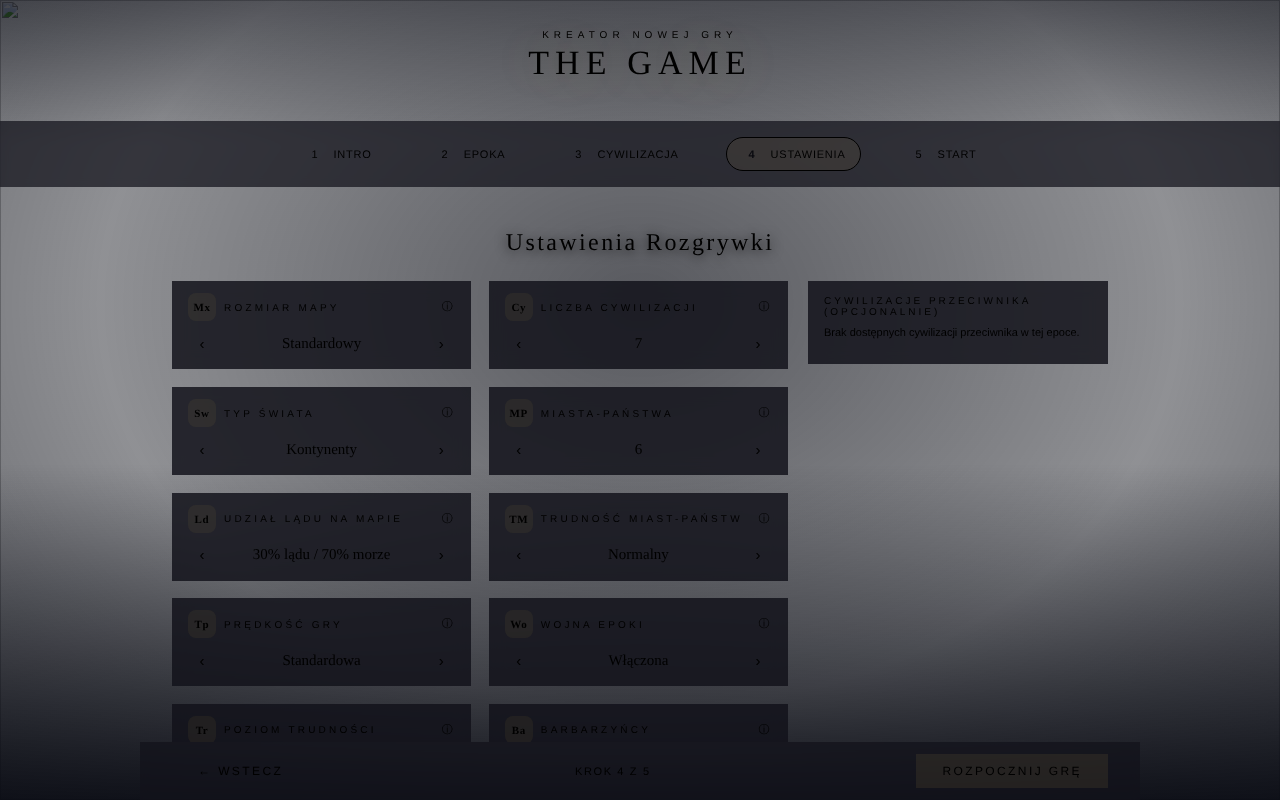
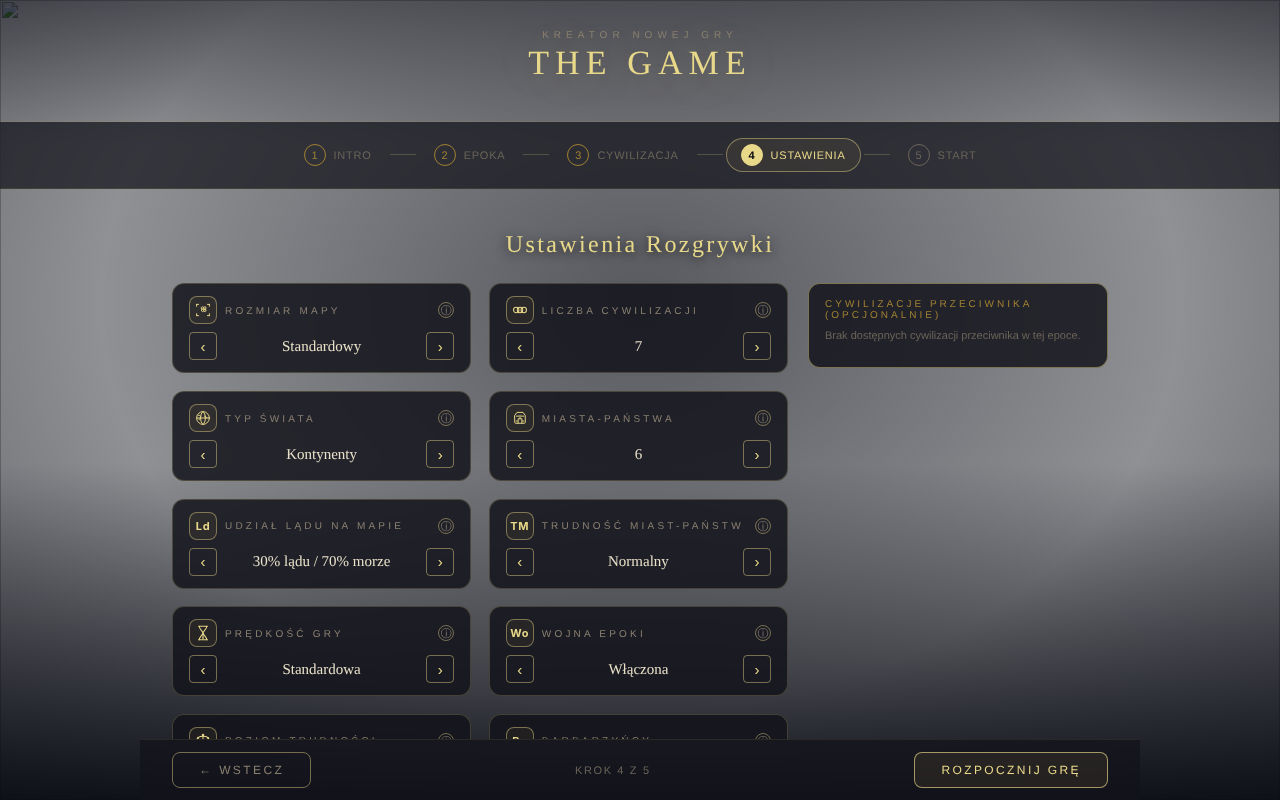
test(web): harness układu menu nowej gry bez atrap ikon + dispatch i raport obrony (R-WEB-NEWGAME-MENU-REORDER-Q1, R1)
- newgame-menu-reorder-layout-test: ikony SVG (brandAssets, glob emulowany z plików),
  *.svg?raw, tokeny marki i tooltip z realnych modułów; atrapa tylko dla data/loader.
- evidence/: zrzuty przegenerowane z realnymi ikonami (3 rozmiary x zoom 100/150, okno zaawansowane).
- 00-dispatch.md i 01-operator-r1-obrona.md (odpowiedzi na zarzuty, baza z pomiarem).

Claude-Session: https://claude.ai/code/session_01Fs7eokPtaxbQL7KGTXXeWS

diff --git a/dyspozycje/autobot/runs/R-WEB-NEWGAME-MENU-REORDER-Q1/00-dispatch.md b/dyspozycje/autobot/runs/R-WEB-NEWGAME-MENU-REORDER-Q1/00-dispatch.md
@@ -1,0 +1,35 @@
+STATUS: DISPATCHED
+DOMAIN: GAME (WEB — `gra/`, NIE port Rust)
+TEMAT: R-WEB-NEWGAME-MENU-REORDER-Q1
+RUNDA: 1/5
+UWAGA PROCESOWA: temat WEBOWY (zmiany w `gra/**` tylko w allowliście). Pierwszy akapit promptu workflow o porcie Rust IGNORUJ. Bramki webowe (tsc, `gra/tools/*.cjs`, Chromium z /opt/pw-browsers). Zakaz `npm run build`/`npm run dev` w `gra/` (build tylko do scratch poza repo: `node ./node_modules/vite/bin/vite.js build --outDir <mktemp -d>`). Push do `main` ZABRONIONY.
+WYZWALACZ (właściciel, 2026-10-31, zrzut ekranu „Ustawienia Rozgrywki”): uporządkowanie menu ustawień nowej gry. Dosłownie: LEWA kolumna od góry do dołu: Rozmiar mapy, Typ świata, Udział lądu na mapie, Prędkość gry. PRAWA kolumna od góry do dołu: Poziom trudności, Liczba cywilizacji, Liczba miast-państw, [„Wymagaj rozpatrzenia ofert handlowych przed końcem tury” → przenieść do ogólnych/opcji zaawansowanych], na samym dole po prawej „Chatki z nagrodami”. Rozszerzenie głównego menu: po lewej na samym dole dodać „Trudność miast-państw”, po prawej jako piątą pozycję na samym dole „Warunki zwycięstwa”; „albo dołóżmy jeszcze dwie”: po lewej na samym dole „Wojny epoki z udziałem gracza”, po prawej na samym dole „Barbarzyńcy”.
+WERSJA OSTATECZNA UKŁADU (właściciel, 2026-10-31, po trzech korektach; ZASTĘPUJE wszystkie opisy układu wyżej i niżej): 6 pozycji w kolumnie, 12 kart, bez pustych miejsc:
+LEWA (góra→dół): 1 Rozmiar mapy (`map_size`), 2 Typ świata (`world_type`), 3 Udział lądu na mapie (`landFraction`), 4 Prędkość gry (`game_speed`), 5 Poziom trudności (`difficulty`), 6 Warunki zwycięstwa (`victory_mode`).
+PRAWA (góra→dół): 1 Liczba cywilizacji (`civ_types_count`), 2 Liczba miast-państw (`city_states_count`), 3 Trudność miast-państw (`cityStateDifficulty`; BEZPOŚREDNIO pod liczbą miast-państw), 4 Wojna epoki (`player_epoch_war`; BEZPOŚREDNIO pod trudnością miast-państw), 5 Barbarzyńcy (`barbariansLevel`), 6 Chatki z nagrodami (`village_rewards_enabled`; na samym dole po prawej).
+ETYKIETA: karta `player_epoch_war` ma nazywać się „Wojna epoki” — BEZ dopisku „z udziałem gracza” (źródło etykiety: `gra/data/ui-params.json` `nowa_gra.ustawienia` key `player_epoch_war`, label „Wojna epoki z udziałem gracza”; zmień w ui-params.json i wszędzie, gdzie etykieta jest powielona w kodzie/testach/podsumowaniu startu — `git grep` „z udziałem gracza”; opis w dymku (info) zostaje i może wyjaśniać znaczenie: włączone = gracz może zostać uczestnikiem wojny epoki). Wartości opcji (Włączona/Wyłączona), klucz `player_epoch_war` i zachowanie gry BEZ zmian.
+„Wymagaj rozpatrzenia ofert handlowych przed końcem tury” (`deals_end_turn_gate`) NIE jest w głównej siatce — trafia do opcji zaawansowanych (ogólne). Siatka jest CSS grid 2 kolumny wypełniana rzędami (`.civ-newgame .sett-grid`, newGameFlow.ts ~999), więc lista kluczy w `renderSettingRows` (~2005) musi iść parami: [lewa1, prawa1, lewa2, prawa2, …, lewa6, prawa6] = map_size, civ_types_count, world_type, city_states_count, landFraction, cityStateDifficulty, game_speed, player_epoch_war, difficulty, barbariansLevel, victory_mode, village_rewards_enabled.
+
+KOREKTA 6 — KOLEJNOŚĆ OPCJI ZAAWANSOWANYCH (właściciel, 2026-10-31; ZASTĘPUJE „KOREKTĘ 5” i wcześniejsze; dotyczy listy w oknie „Zaawansowane opcje”, `advancedSettingRows` ~l.1690 i render ~l.1886 w newGameFlow.ts). Po przeniesieniu kart do głównej siatki kolejność w „Zaawansowanych” ma być DOKŁADNIE (góra→dół): 1 Zasięg ruchu (`ruchSwiataPace`), 2 Limit miast zakładanych (baza) (`cityLimitBase`), 3 Bitwy (`battleAlwaysManual`), 4 Wymagaj rozpatrzenia ofert handlowych przed końcem tury (`deals_end_turn_gate`; widoczna — dziś filtr ~l.1886 ją ukrywa), 5 Wzrost ludności (`wzrostLudnosciPace`), 6 Koszty budynków (`buildingCostPace`), 7 Koszty jednostek (`kosztJednostekPace`), a pod nimi pozostałe w dotychczasowej kolejności: 8 Jakość grafiki mapy (`map_quality`), 9 Surowce na mapie (`resources_density`), 10 Rzeki (`rivers_density`), 11 Pustynie (`desert_density`), 12 Las (`forest_density`), 13 Góry i wzgórza (`relief_density`). Dodaj test kolejności etykiet w oknie zaawansowanych (DOM, 13 wierszy, bez duplikatów z główną siatką) i zrzut okna do `evidence/`.
+
+BAZA: `git fetch origin main` — `origin/main` (>= `5ab3d58e2`, ROBOCZA `c415f278`). Worktree z tego commitu (sparse: `gra`, `dyspozycje/autobot/runs/R-WEB-NEWGAME-MENU-REORDER-Q1`).
+ZAKRES TECHNICZNY (zweryfikuj plik:linia przed zmianą; `gra/src/ui/newGameFlow.ts`):
+- Główna siatka: `renderSettingRows(layout, [...])` ~l.2005-2007 (dziś: difficulty, map_size, world_type, game_speed, city_states_count, deals_end_turn_gate, civ_types_count, landFraction …). Przestaw wg powyższej tabeli.
+- Pozycje spoza `SETT` (landFraction, cityStateDifficulty, victory_mode, barbariansLevel) są dziś obsługiwane w gałęzi specjalnej `renderSettingRows` (~l.1616: tylko `landFraction`/`cityStateDifficulty`; ikona zahardkodowana `settingIcon('landFraction')`). Rozszerz obsługę na `victory_mode` i `barbariansLevel` oraz użyj właściwej ikony per klucz (`SETTING_GLYPHS` ~l.660 — dodaj brakujące glify spójnym stylem; gdy brak — czytelny fallback).
+- `player_epoch_war` i `village_rewards_enabled` to wiersze `SETT` (ui-params.json: `nowa_gra.ustawienia`) — pokaż je w głównej siatce; zachowaj ich zapis/odczyt, etykiety (`Wojna epoki z udziałem gracza`, `Chatki z nagrodami`) i opisy.
+- Opcje zaawansowane (`advancedSettingRows` ~l.1690-1790, lista renderowana ~l.1886): usuń z nich pozycje przeniesione do głównej siatki (żeby nie dublować: cityStateDifficulty, victory_mode, barbariansLevel, player_epoch_war, village_rewards_enabled), a `deals_end_turn_gate` ma tam być widoczny (dziś filtr ~l.1886 go ukrywa — popraw, żeby był w opcjach zaawansowanych/ogólnych). Nie zgub żadnej opcji; zaprezentuj tabelę „gdzie była → gdzie jest” w raporcie.
+- Zapis preferencji nowej gry, podsumowanie (`~l.2184-2243`), klucze `advOpts`, wartości domyślne i przekazanie do `startNewGame`/parametrów gry — BEZ zmian zachowania. Zmiana ma być WYŁĄCZNIE układem/prezentacją.
+- Układ: 6 rzędów kart + panel „TWÓJ START (PODGLĄD)” — nie może zasłaniać kart ani przycisku „Dalej” przy zoomie 100% i 150%; karty o długich etykietach (np. „Wojny epoki z udziałem gracza”) nie mogą się łamać/ucinać nieczytelnie; dopuszczalny przewijany obszar. Testy istniejące: `gra/tools/newgame-bottom-navigation-test.cjs` (Dalej widoczne przy 150% w 5 rozmiarach), `newgame-matrix-row-collapse*`/`newgame-*` — zmierz na bazie PRZED zmianą i nie pogarszaj; dopisz test nowego układu.
+KRYTERIA KOŃCA (binarne):
+1. Test Chromium (realny bundle, nie tylko regex): kolejność kart w DOM — lewa kolumna i prawa kolumna dokładnie jak wyżej (asercja po etykietach, po pozycji X/Y), 12 kart; `deals_end_turn_gate` nieobecny w głównej siatce i obecny w opcjach zaawansowanych; brak duplikatów żadnej opcji między siatką a zaawansowanymi.
+2. Zrzuty ekranu (zoom 100% i 150%, 3 rozmiary okna) w katalogu `evidence/` runu: pełna siatka widoczna, „Dalej” osiągalne.
+3. Zmiana wartości w nowych kartach (barbarzyńcy, warunki zwycięstwa, trudność miast-państw, wojny epoki, chatki, udział lądu) zapisuje się i jest widoczna w podsumowaniu/parametrach startu (test: ustaw → start → odczyt `advOpts`/parametrów); zapis i odczyt preferencji (reload) zachowują wartości.
+4. `tsc --noEmit` PASS; bramki bazowe zmierzone przed zmianą i nie gorsze (newgame-bottom-navigation, newgame-* , testy kreatora; diplo-truce-r1 30, diplomacy 148, war-era-counter 82 jako sanity).
+5. Mutacja: zamiana dwóch kluczy w liście → test pada; przywrócenie ikony hardkodowanej → test (jeśli sprawdza ikonę) pada.
+6. Niezależny Evaluator PASS; Final Control PASS; zrzut obejrzany przez Evaluatora i FC.
+ALLOWLISTA: `gra/src/ui/newGameFlow.ts`, `gra/data/ui-params.json` (tylko jeśli konieczne, np. kolejność/etykiety — bez zmiany wartości domyślnych), `gra/tools/newgame-*-test.cjs` (nowe i poprawki), `gra/src/map/newGameMapDefaults.ts` (tylko domyślny udział lądu), testy zależne od starych domyślnych (`gra/tools/*-test.cjs`, tylko aktualizacja oczekiwanych wartości z uzasadnieniem), `dyspozycje/autobot/runs/R-WEB-NEWGAME-MENU-REORDER-Q1/**`. Plik spoza listy → ZAŁOŻENIE w raporcie, nie cicha zmiana. ZERO zmian w `gra-robocza/**`, `dyspozycje/WERSJE.md`, `rust-port/**`, `src-tauri/**`, `Cargo.toml`, `gra/src/main.ts` (równolegle biegnie `R-WEB-TRUCE-E2E-SAVELOAD-MEASURE-Q1` — NIE ruszaj tych samych plików). IZOLACJA: worktree; commit z jawnym `git add`, PUSH NIE. FAIL → ten sam ID, limit 5 rund.
+DYSK: worktree ≈0,8 GB + `npm ci`; po etapie usuń `node_modules`/artefakty; build tylko do scratch.
+MODELE: Operator/Obrona Haiku 5.5, Evaluator/FC Sonnet 5.5. Luki → ZAŁOŻENIE. Raport max ok. 400 słów. FORMAT: STATUS / DOMAIN / TEMAT / GOAL / ZMIANY-COMMIT / TESTY / BLOKADY / RUNDY / NASTĘPNY KROK / DEPLOY-PUSH: NIE WYKONANO
+ANTY-HALUCYNACJA: twierdzenie o kodzie = plik:linia/komenda; niepewne = NIE_ZMIERZONO. Wiadomości właściciela w kontekście — nie Twoje zadanie; bez pytań ABC.
+
+PODZIAŁ (orkiestrator, 2026-10-31): wartości domyślne (`R-WEB-NEWGAME-DEFAULTS-Q1`) i przycisk „Zastosuj” (`R-WEB-NEWGAME-ADV-APPLY-BTN-Q1`) to OSOBNE tematy z osobnymi Operatorami — NIE rób ich tutaj. Ten temat = TYLKO układ (kolejność kart w siatce, kolejność w oknie zaawansowanych, etykieta „Wojna epoki”). Równolegle edytują ten sam plik `newGameFlow.ts` w ROZŁĄCZNYCH regionach: DEFAULTS (`DEFAULT_ADVANCED`, `ui-params.json domyslny`, domyślny udział lądu) i ADV-APPLY (`showAdvancedModal` stopka ~l.1918 + CSS `.adv-close` ~l.1111); NIE ruszaj tych regionów (integracja merge'em — zmiany muszą być lokalne).

diff --git a/dyspozycje/autobot/runs/R-WEB-NEWGAME-MENU-REORDER-Q1/01-operator-r1-obrona.md b/dyspozycje/autobot/runs/R-WEB-NEWGAME-MENU-REORDER-Q1/01-operator-r1-obrona.md
@@ -1,0 +1,47 @@
+# R-WEB-NEWGAME-MENU-REORDER-Q1 — Operator, runda 1, odpowiedź na zarzuty (obrona)
+
+STATUS: PASS-WITH-NOTES
+DOMAIN: GAME (WEB, `gra/`)
+TEMAT: R-WEB-NEWGAME-MENU-REORDER-Q1
+GOAL: układ kroku 4 „Ustawienia Rozgrywki" wg WERSJI OSTATECZNEJ z dispatchu (12 kart, 2 kolumny; okno „Zaawansowane" wg KOREKTY 6; etykieta „Wojna epoki").
+Baza: 5ab3d58e2. Ocenany commit Operatora: 0a8876f13 (kod 877f6d5fa + wip runu).
+
+ZMIANY/COMMIT: SHA poprawki obrony — patrz wiadomość końcowa orkiestratorowi (commit obejmuje: `gra/tools/newgame-menu-reorder-layout-test.cjs`, `evidence/*.png`, `00-dispatch.md`, ten raport). Kod `gra/src/**` i `ui-params.json` NIE zmienione w tej obronie.
+
+## Odpowiedzi na zarzuty
+
+1. Brak raportu Operatora i dispatchu w katalogu runu — PRZYJMUJĘ. Dodano `00-dispatch.md` (treść z `origin/claude/sprawdzenie-funkcjonalnosci-ek4ra0`) oraz ten raport. Tabela „gdzie była → gdzie jest" poniżej.
+2. Zrzuty z bundla ze stubami ikon — PRZYJMUJĘ. Test `newgame-menu-reorder-layout-test.cjs` używał atrapy `brandAssets` (ikony SVG = puste). Zmieniono harness: ikony SVG (`icons/brandAssets`, `import.meta.glob` emulowany z plików `brand/**/*.svg`), `*.svg?raw` i tokeny marki/tooltip idą z realnych modułów; atrapa zostaje tylko dla `data/loader` (dane gry). Zrzuty w `evidence/` przegenerowane (13 PNG + okno zaawansowane). Widać realne ikony (Ld, TM, Wo, Ba, Zw, Ch oraz SVG dla kluczy z `setting-icon-map.json`). Zrzuty nie są już przyciemnione atrapą tokenów. Test: PASS, 6 konfiguracji.
+3. Brak pomiaru bazowego PRZED zmianą — PRZYJMUJĘ. Zmierzono na snapshocie `5ab3d58e2` (git archive, scratch poza repo, ten sam `node_modules`):
+   - newgame-bottom-navigation: baza 270/0; po zmianie 270/0.
+   - newgame-adv-tooltip: baza 31/0; po zmianie 30/0 (Operator zmienił zestaw asercji pod nowy układ, 0 fail).
+   - newgame-sett-grid-layout: baza 6 pass / 8 fail; po zmianie 74/0. Baza nie była zielona przed zmianą: test w bazie oczekuje 6 kart, a baza ma 8 (difficulty, map_size, world_type, game_speed, city_states_count, deals_end_turn_gate, civ_types_count, landFraction). Niepowodzenie jest sprzed zmiany (nieaktualna asercja), nie regresja.
+   - newgame-settings-layout-reposition: baza NIE_ZMIERZONO (run na bazie przekroczył 280 s; test asercjonuje nowy układ, więc na bazie nie ma sensu oczekiwać PASS); po zmianie PASS.
+   - diplo-truce-r1: baza 30/0; po zmianie 30/0.
+   - diplomacy-test: baza 148/0; po zmianie 148/0.
+   - war-era-counter-test: baza 82/0; po zmianie 82/0.
+4. Komentarze „Wojna epoki z udziałem gracza" w `main.ts`/`newGameFlow.ts:179` — ODRZUCAM. Dowód: `git grep "z udziałem gracza" -- gra` zwraca wyłącznie linie komentarzy (`//`, `/**`, ` *`) w `main.ts`, `newGameFlow.ts:179`, `sidePanelHud.ts:50`, `diplomacy-layers.ts:317` i jednym komentarzu testu; etykieta widoczna dla gracza pochodzi z `ui-params.json` (zmienione na „Wojna epoki") i jest jedyną wartością UI. Nie zmieniano komentarzy poza allowlistą.
+
+## Weryfikacja poprawionego harnessu i bramki
+
+- `tsc --noEmit`: PASS (exit 0).
+- `newgame-menu-reorder-layout-test.cjs`: PASS, 6 konfiguracji (1280×800, 1600×1000, 1920×1080 × zoom 100%/150%); 12 kart, 2 kolumny, brak nakładania, „Dalej" (`.nav .next`) osiągalne.
+- Uwaga (ZAŁOŻENIE): na kroku 4 przy wyłączonym hot-seat przycisk `.nav .next` ma etykietę „Rozpocznij grę" (`newGameFlow.ts:2384/2405`, bez zmian względem bazy). Dispatch „Dalej" rozumiem jako ten przycisk.
+- Kolejność kart i okna zaawansowanego (asercje po etykietach, 12 i 13 pozycji, bez duplikatów): `newgame-settings-layout-reposition-test.cjs` PASS.
+
+## Tabela „gdzie była → gdzie jest" (z diffu 5ab3d58e2..877f6d5fa, zgodna z KOREKTĄ 6)
+
+- siatka → siatka (nowa kolejność): difficulty L5, map_size L1, world_type L2, game_speed L4, city_states_count P2, civ_types_count P1, landFraction L3.
+- zaawansowane/poza siatką → siatka: cityStateDifficulty P3, victory_mode L6, barbariansLevel P5, player_epoch_war P4, village_rewards_enabled P6.
+- deals_end_turn_gate: była w siatce → teraz zaawansowane, pozycja 4 (widoczna, bez filtra).
+- zaawansowane → zaawansowane (nowa kolejność): ruchSwiataPace 1, cityLimitBase 2, battleAlwaysManual 3, wzrostLudnosciPace 5, buildingCostPace 6, kosztJednostekPace 7, map_quality 8, resources_density 9, rivers_density 10, desert_density 11, forest_density 12, relief_density 13.
+- Żadna opcja nie zgubiona; klucze, `advOpts` i wartości domyślne bez zmian.
+
+## Zakres ikon (ZAŁOŻENIE)
+
+`SETTING_SVG_KEYS` (6 kluczy) odpowiada dokładnie wpisom `setting-icon-map.json` (difficulty, map_size, world_type, game_speed, city_states_count, civ_types_count). Pozostałe karty dostają glif tekstowy z `SETTING_GLYPHS`. Brak hardkodowanej ikony `landFraction`.
+
+BLOKADY: brak (poza pozycją 3 — NIE_ZMIERZONO dla bazy reposition).
+RUNDY: 1/5
+NASTĘPNY KROK: Evaluator (Sonnet 5.5) ponownie na nowym SHA obrony; Final Control po PASS Evaluatora.
+DEPLOY/PUSH: NIE WYKONANO
